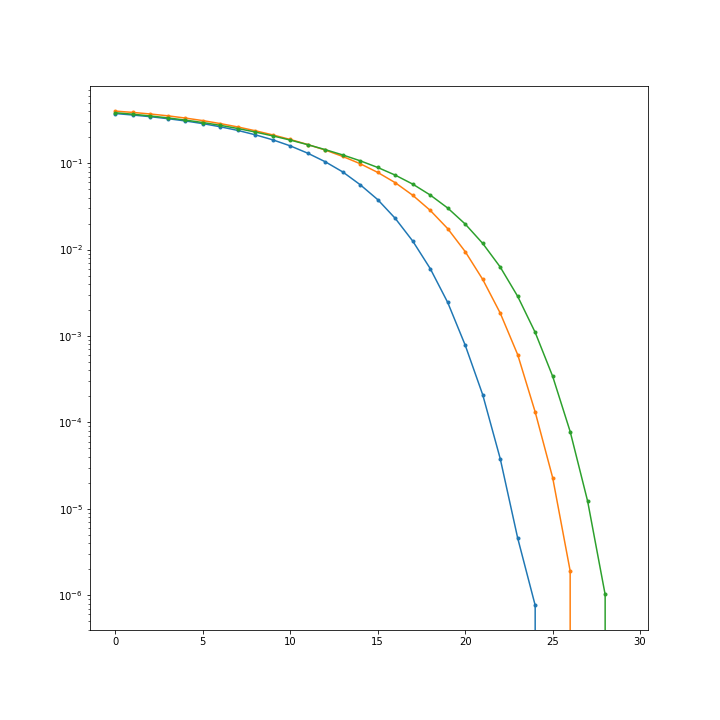
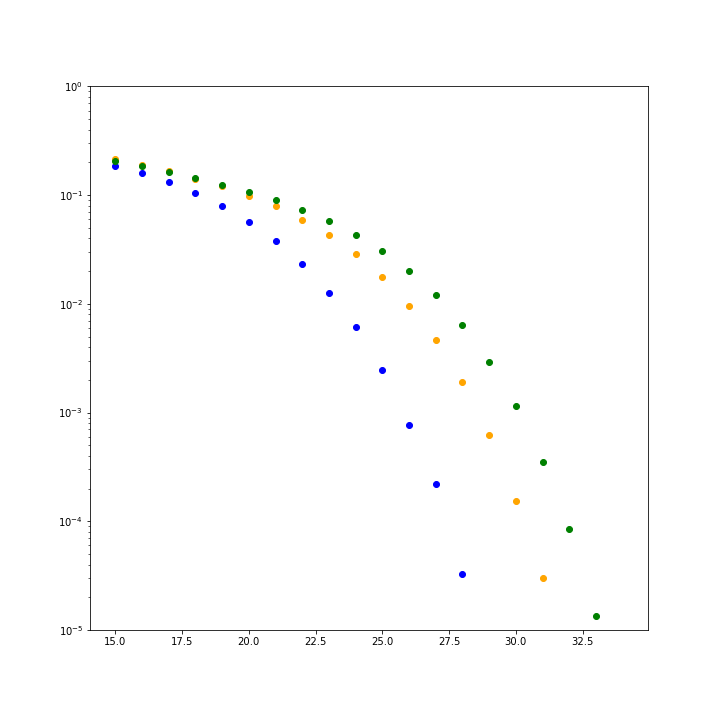
インターン事前学習

diff --git a/2sps_signal_process.py b/2sps_signal_process.py
@@ -60,15 +60,36 @@ def modQAM_64(prbs):
     return QAM_64
 
 ###################################################
+    
+################### アップサンプリング ##################
+def upsampling(symbols):
+    ana_symbols = np.zeros(2 * symbols.size, dtype="complex")
+    ana_symbols[0::2] = symbols
+    return ana_symbols
+###################################################
 
+################### 矩形ナイキストフィルタ ##############
+def nyquist_filter(symbols):
+    fft_symbols = np.fft.fft(symbols)
+    nyquist = np.zeros(fft_symbols.size)
+    nyquist[fft_symbols.size//4:fft_symbols.size//4 *3] = 1
+    seikei = np.fft.ifft(nyquist * fft_symbols)
+    return seikei
+    
 ###################　雑音の付与　#####################
     
 def noise(SNRdB,N,QAM_order):
     SNR = 1/QAM_order *10**(0.1 * SNRdB)
-    noise =  np.random.normal(0, np.sqrt(1/(2*SNR)), N) + 1j*np.random.normal(0, np.sqrt(1/(2*SNR)), N)
+    noise =  np.random.normal(0, np.sqrt(1/(SNR)), N) + 1j*np.random.normal(0, np.sqrt(1/(SNR)), N)
     return noise
     
 ###################################################    
+
+################### ダウンサンプリング ##################
+def downsampling(symbols):
+    deg_symbols = np.zeros(int(symbols.size/2))
+    deg_symbols = symbols[0::2]
+    return deg_symbols
 
 ################### 信号の復調 #####################
 #QPSA
@@ -173,22 +194,43 @@ if __name__ == '__main__':
     mod_QAM16 = modQAM_16(prbs_QAM16)
     mod_QAM64 = modQAM_64(prbs_QAM64) 
     
+    #アップサンプリング
+    up_QPSK = upsampling(mod_QPSK)
+    up_QAM16 = upsampling(mod_QAM16)
+    up_QAM64 = upsampling(mod_QAM64)
+    
+    #矩形フィルタ
+    filterd_QPSK = nyquist_filter(up_QPSK)
+    filterd_QAM16 = nyquist_filter(up_QAM16)
+    filterd_QAM64 = nyquist_filter(up_QAM64)
+    
+    
     #リスト作成
-    SNR_list = np.arange(0,30,1)
+    SNR_list = np.arange(15,35,1)
     BER_QPSK_list = []
     BER_16QAM_list = []
     BER_64QAM_list = []
     
     for SNR in SNR_list:
         #雑音付与
-        noise_QPSK = mod_QPSK + noise(SNR, mod_QPSK.size, 2*10)
-        noise_QAM16 = mod_QAM16 + noise(SNR, mod_QAM16.size, 4*10)
-        noise_QAM64 = mod_QAM64 + noise(SNR, mod_QAM64.size,6*10)
+        noise_QPSK = filterd_QPSK + noise(SNR, filterd_QPSK.size, 2*10)
+        noise_QAM16 = filterd_QAM16 + noise(SNR, filterd_QAM16.size, 4*10)
+        noise_QAM64 = filterd_QAM64 + noise(SNR, filterd_QAM64.size,6*10)
         
+         #フィルタ
+        filterd_noise_QPSK = 2 * nyquist_filter(noise_QPSK)
+        filterd_noise_QAM16 = 2 * nyquist_filter(noise_QAM16)
+        filterd_noise_QAM64 = 2 * nyquist_filter(noise_QAM64)
+        
+        #ダウンサンプリング
+        down_QPSK = downsampling(filterd_noise_QPSK)
+        down_QAM16 = downsampling(filterd_noise_QAM16)
+        down_QAM64 = downsampling(filterd_noise_QAM64)
+               
         #デコード
-        dec_QPSK = decQPSK(noise_QPSK)
-        dec_QAM16 = decQAM_16(noise_QAM16)
-        dec_QAM64 = decQAM_64(noise_QAM64)
+        dec_QPSK = decQPSK(down_QPSK)
+        dec_QAM16 = decQAM_16(down_QAM16)
+        dec_QAM64 = decQAM_64(down_QAM64)
         
         BER_QPSK = np.sum(prbs_QPSK^dec_QPSK)/prbs_QPSK.size
         BER_QAM16 = np.sum(prbs_QAM16^dec_QAM16)/prbs_QAM16.size
@@ -205,8 +247,3 @@ if __name__ == '__main__':
     plt.yscale('log')
     plt.ylim([10**(-5),1])
     fig.savefig("img.png")
-        
-        
-
-
-
